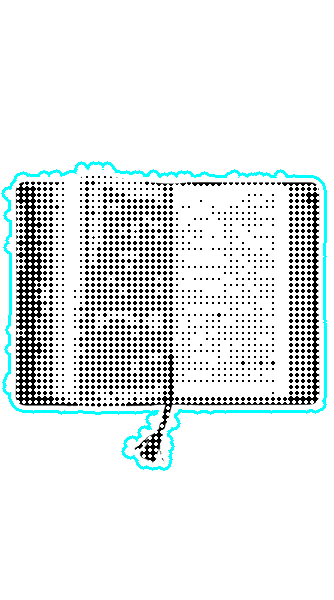
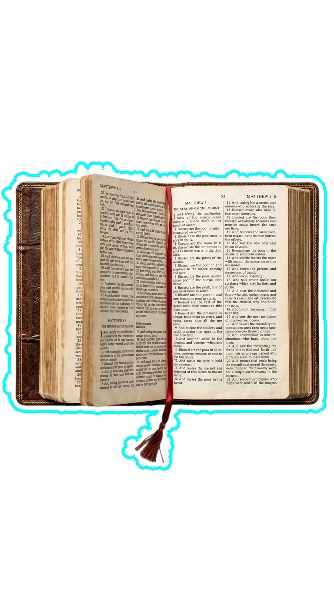
Re-process Eden Rivers assets with cyan stroke only, no halftone
Adds a --no-halftone flag to halftone_stroke.py so full original color
can be kept while still applying the offset stroke ring. Re-ran it
against bible.png, dry-valley.png, and water-texture.png with this flag,
overwriting the previous halftoned versions in
src/shorts/eden-rivers/assets/processed/.

Claude-Session: https://claude.ai/code/session_01TWLUHvJd4hzLX2kjmk13r2

diff --git a/src/shared/halftone_stroke.py b/src/shared/halftone_stroke.py
@@ -106,13 +106,14 @@ def process_image(
     stroke_offset: int = DEFAULT_STROKE_OFFSET,
     stroke_width: int = DEFAULT_STROKE_WIDTH,
     stroke_color=CYAN,
+    apply_halftone: bool = True,
 ) -> None:
     rgba = Image.open(src_path).convert("RGBA")
 
     ring = offset_stroke_ring(rgba, offset=stroke_offset, width=stroke_width, color=stroke_color)
-    dots = halftone_dots(rgba, cell_size=cell_size)
+    foreground = halftone_dots(rgba, cell_size=cell_size) if apply_halftone else rgba
 
-    result = Image.alpha_composite(ring, dots)
+    result = Image.alpha_composite(ring, foreground)
     dst_path.parent.mkdir(parents=True, exist_ok=True)
     result.save(dst_path)
 
@@ -126,6 +127,11 @@ def main() -> int:
     parser.add_argument("--cell-size", type=int, default=DEFAULT_CELL_SIZE)
     parser.add_argument("--stroke-offset", type=int, default=DEFAULT_STROKE_OFFSET)
     parser.add_argument("--stroke-width", type=int, default=DEFAULT_STROKE_WIDTH)
+    parser.add_argument(
+        "--no-halftone",
+        action="store_true",
+        help="Keep original full color instead of converting to halftone dots",
+    )
     args = parser.parse_args()
 
     args.output_dir.mkdir(parents=True, exist_ok=True)
@@ -141,6 +147,7 @@ def main() -> int:
                 cell_size=args.cell_size,
                 stroke_offset=args.stroke_offset,
                 stroke_width=args.stroke_width,
+                apply_halftone=not args.no_halftone,
             )
             results.append((name, "ok", dst))
         except Exception as exc:  # noqa: BLE001